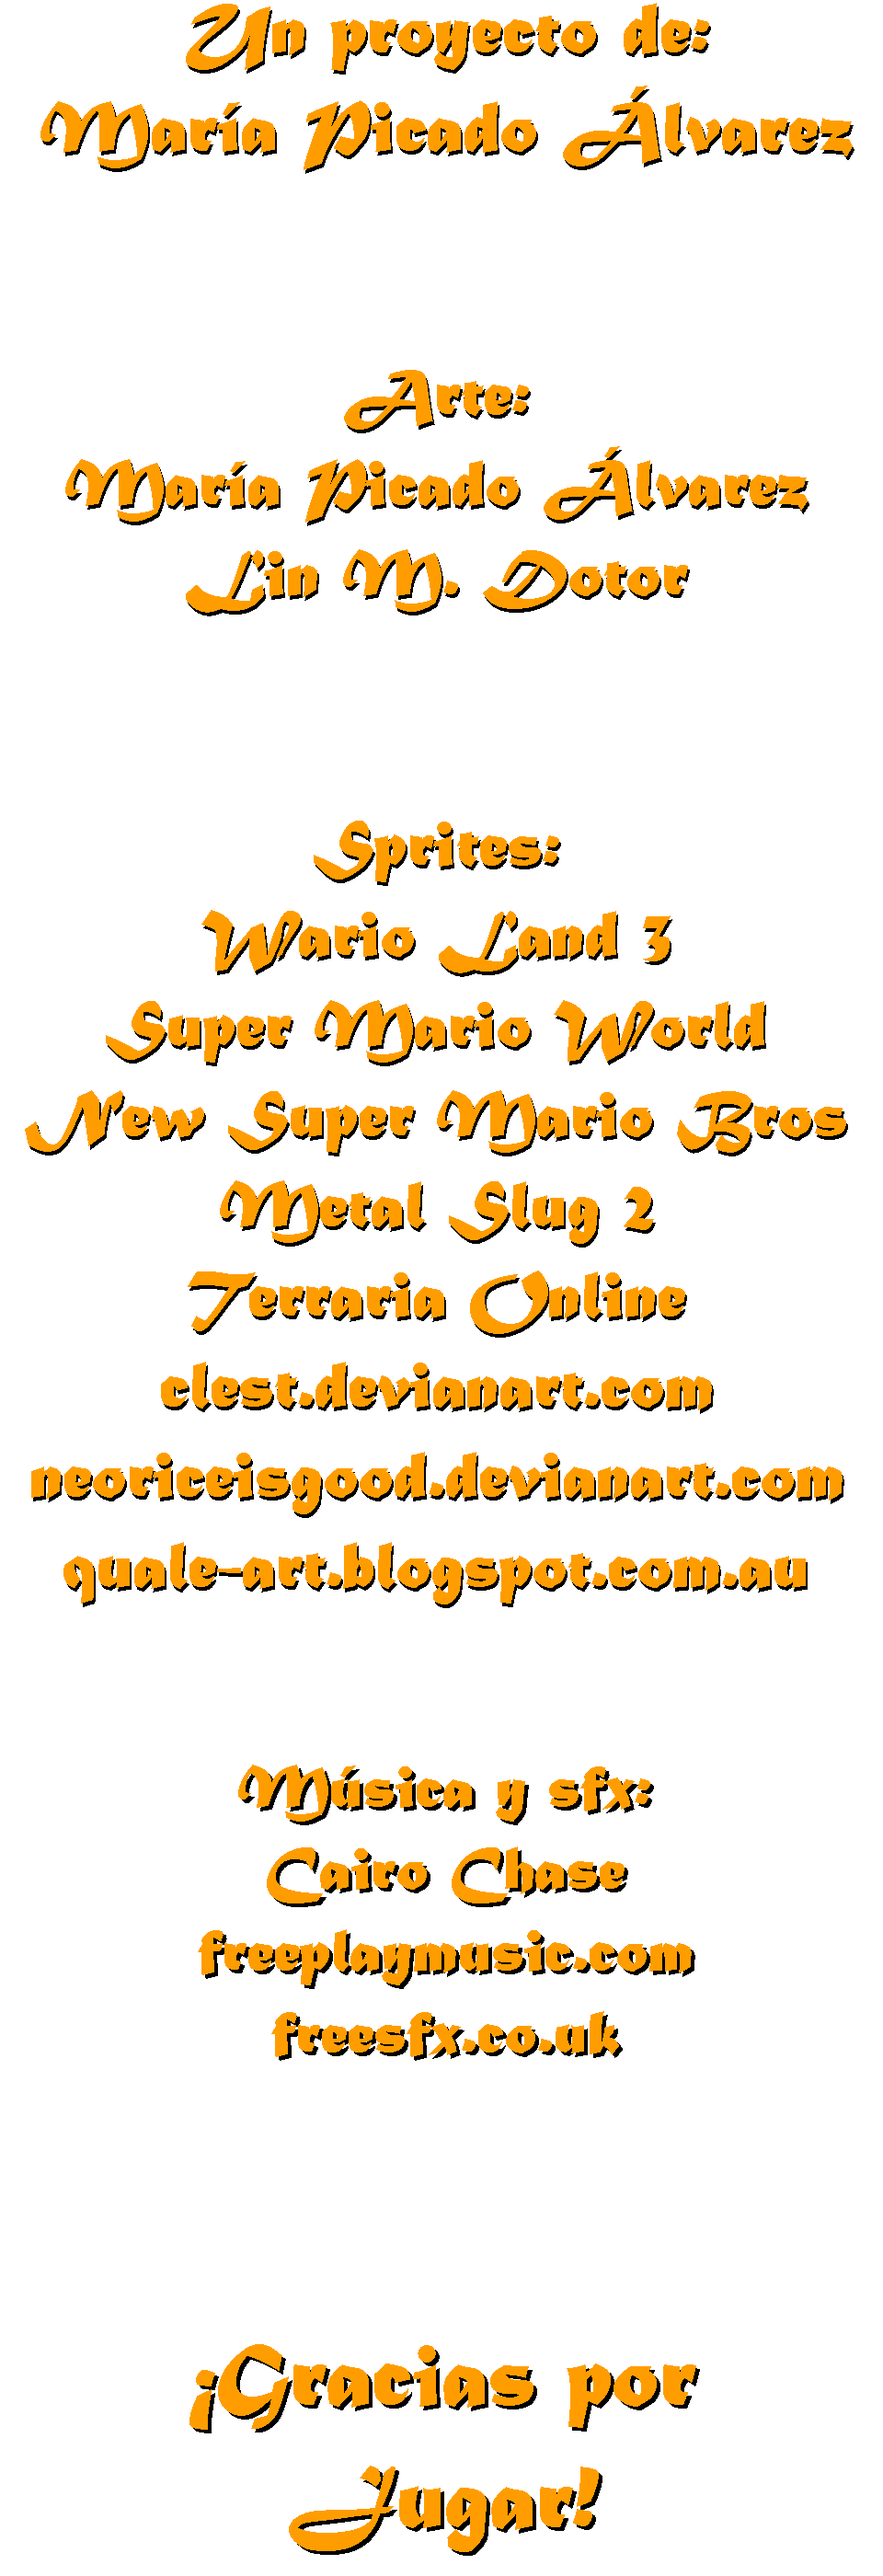
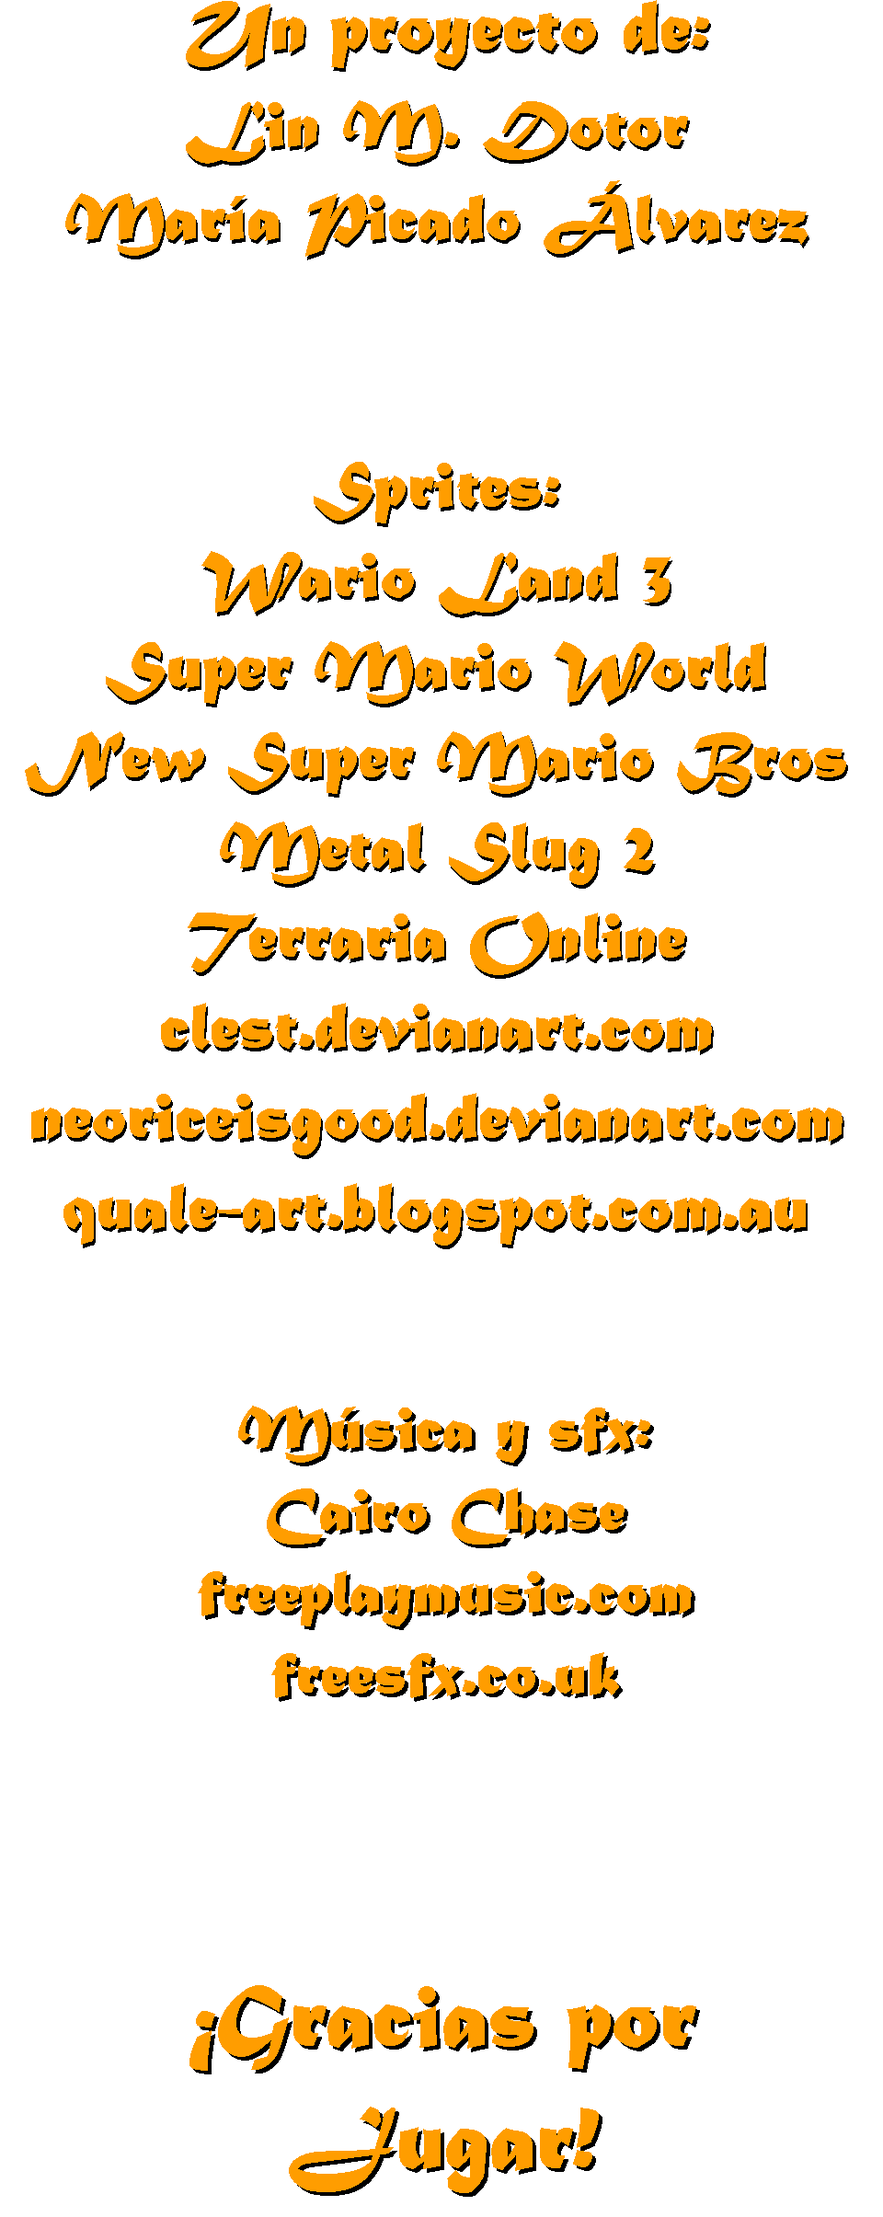
Actualizados créditos

Changed region(s): [[0.0312, 0.0, 0.9688, 0.8091], [0.2188, 0.8714, 0.8125, 0.9959]]

diff --git a/cuartapiramide.js b/cuartapiramide.js
@@ -877,9 +877,9 @@ Q.scene("creditos", function(stage) {
   //Define, capa por capa, la escena de inicio del juego, las animaciones y el botón de JUGAR
   var fondo = stage.insert(new Q.Repeater( { asset: "creditos_fondo.png"} ));
 
-  var texto = stage.insert(new Q.Sprite( { asset: "creditos_texto.png", x: 480, y: 2150 } ), fondo);
+  var texto = stage.insert(new Q.Sprite( { asset: "creditos_texto.png", x: 480, y: 1770 } ), fondo);
     texto.add('tween');
-    texto.animate({ x: texto.p.x, y: -Q.height-300, angle: 0 }, 20, Q.Easing.Linear);
+    texto.animate({ x: texto.p.x, y: -Q.height-150, angle: 0 }, 20, Q.Easing.Linear);
 
   var container = stage.insert(new Q.UI.Container({
     x: Q.width/2, y: (Q.height*5/6)-50, fill: "rgba(0,0,0,0.5)"
